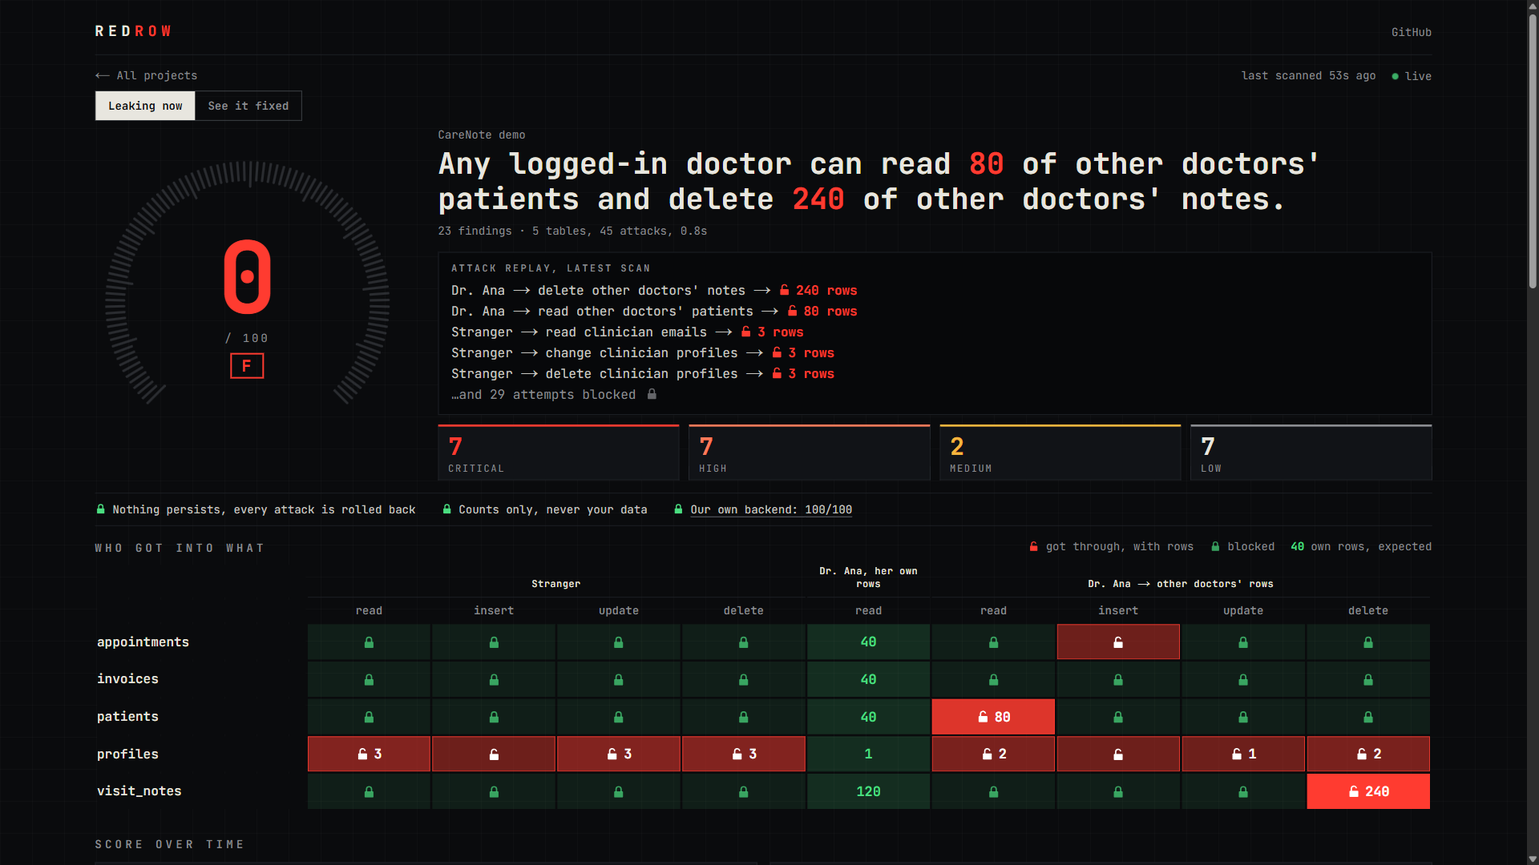
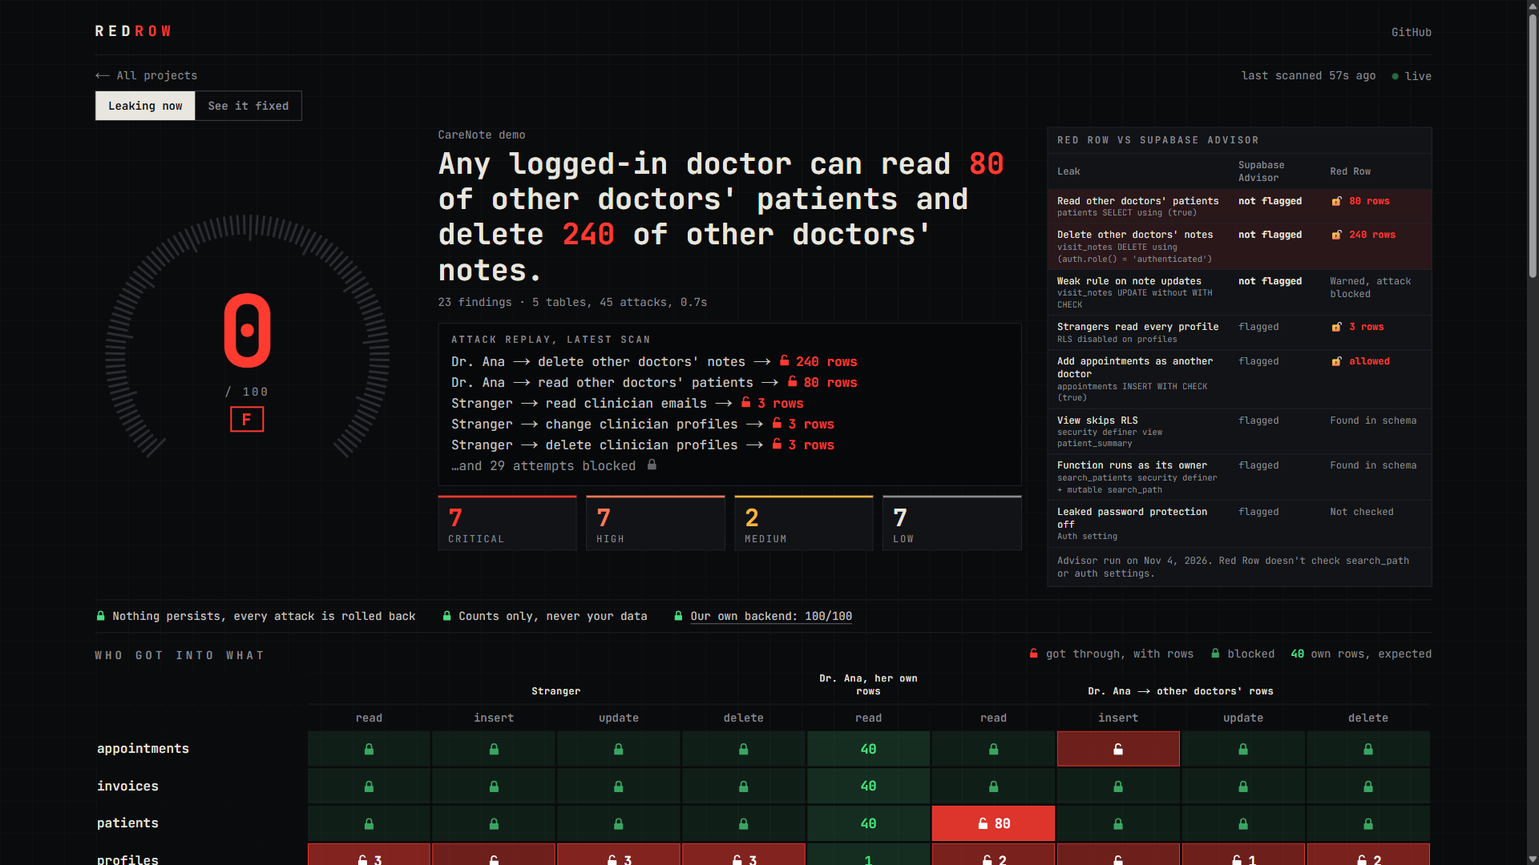
docs: judge-facing README

diff --git a/README.md b/README.md
@@ -4,15 +4,46 @@
 
 **[See it live → redrow.vercel.app](https://redrow.vercel.app)**
 
-Supabase's Security Advisor checks whether Row Level Security is *on*. Red Row checks whether it *works*: it attacks your database as real users, and reports what got through, with row counts.
+Supabase's Security Advisor reads your configuration. Red Row checks whether Row Level Security *works*: it attacks your database as real users, and reports what got through, with row counts.
 
 | Leaking now | See it fixed |
 |---|---|
-| ![CareNote leaking: any logged-in doctor can read 80 of other doctors' patients and delete 240 of their notes. Score 0/F.](docs/img/carenote-leaking.png) | ![The same attacks with the fix applied: every attack blocked. Score 100/A.](docs/img/carenote-fixed.png) |
+| ![CareNote leaking: any logged-in doctor can read 80 of other doctors' patients and delete 240 of their notes. Score 0/F, beside the Red Row vs Supabase Advisor panel.](docs/img/carenote-leaking.png) | ![The same attacks with the fix applied: every attack blocked. Score 100/A.](docs/img/carenote-fixed.png) |
 
-## Red Row vs Supabase's Advisor
+## For judges
 
-Supabase's Advisor reads policy text. Red Row logs in and tries.
+Each claim links to the file that backs it. Measurements are from Nov 4, 2026.
+
+### Data quality
+
+- **Watched by Sodabase:** `scan_runs`, `findings` and `probe_results` on `redrow-hq`, each with freshness and new-row monitors.
+- **Insert-only:** `anon` and `authenticated` get `SELECT` on the scan tables, and there are no update or delete policies ([grants](hq/supabase/migrations/0001_init.sql#L96-L101)). The one exception is that a signed-in user can add their own row to `projects`, and email signups are off.
+- **Constrained:** [`0001_init.sql`](hq/supabase/migrations/0001_init.sql) has foreign keys, `NOT NULL`, and checks on scores, grades, counts, severities, rule ids, actors, actions and outcomes.
+- **Continuous:** a [`pg_cron` sweep](hq/supabase/migrations/0006_sweep_retries.sql) stored 488 real scans from 13:41 to 19:20 UTC. The median gap was 60s for CareNote and 80s for HQ.
+- **Labeled history:** 14 days of backfilled scans are marked `source = 'seed'` by [the seed script](hq/scripts/seed-history.mjs), and the dashboard draws them dashed.
+- **Open Sodabase issues:** each watched table has one open new-rows issue, which makes its verdict `untrusted` for now. Freshness passes, and its content scan found no serious issues. The rows are real: the live sweep wrote 560 `scan_runs` rows on Nov 4, against 192 a day in the seeded history. [`demo:capture-fixed`](demo-target/scripts/capture-fixed-reference.mjs) also pauses the sweep briefly, but around its 17:58 UTC capture no CareNote gap passed 100 seconds, so that isn't the cause.
+
+### Built to scale
+
+- **Indexes:** every foreign key and policy column is indexed ([`findings`](hq/supabase/migrations/0001_init.sql#L52-L54), [`probe_results`](hq/supabase/migrations/0001_init.sql#L68-L69)).
+- **RLS:** [enabled and forced](hq/supabase/migrations/0001_init.sql#L72-L79) on all four tables, with [`(select auth.uid())`](hq/supabase/migrations/0001_init.sql#L82-L95) in every policy that checks the user.
+- **Writes:** no API role can write the scan tables. The edge functions [`ingest`](hq/supabase/functions/ingest/index.ts) and [`sweep`](hq/supabase/functions/sweep/index.ts) insert each scan [in one transaction](hq/supabase/functions/_shared/store.ts), over a server-side database connection. `ingest` needs a key and [validates every report](hq/supabase/functions/_shared/report-schema.ts).
+- **Scheduling:** `pg_cron` calls `sweep` through `pg_net`, with its token [read from Vault](hq/supabase/migrations/0006_sweep_retries.sql). It asks every 20 seconds because `pg_net` requests often stall, and `sweep` skips a database scanned in the last 50 seconds.
+- **Realtime:** [`scan_runs` and `findings` are published](hq/supabase/migrations/0001_init.sql#L103-L104), and [the dashboard subscribes](apps/web/components/live.tsx).
+- **Self-scan:** Red Row scans its own backend about every minute (median 80s). All 212 real scans from 13:41 to 19:20 UTC scored 100/A, with `projects` [declared public](hq/redrow.config.json) because it backs the public board.
+
+### Execution
+
+- **Live:** https://redrow.vercel.app is public, needs no login, and updates itself when a sweep lands.
+- **End to end on real Supabase:** `scan` 0/F → `fix --apply -y` → 100/A. The exact steps are in [`docs/DEMO.md`](docs/DEMO.md). "See it fixed" shows [a stored real scan](apps/web/data/fixed-reference.json) of this database with [the reference fix](demo-target/supabase/fixed.sql) applied: 100/A, 45 attacks.
+- **Tests:** 994 pass: engine 512, CLI 399, HQ 15, web 68. That run includes the real-database tests, which skip when `REDROW_TEST_DB_URL` isn't set.
+- **Rollback safety:** [`rollback.test.ts`](packages/engine/test/rollback.test.ts) makes a probe really write, then checks that nothing persisted, including after a probe throws or the server rejects a statement. It also checks that a full scan changes nothing and that read-only mode sends no write.
+
+### Craft
+
+**The problem:** in [an audit of 200 vibe-coded apps](https://arxiv.org/abs/2606.23130), 91% had at least one vulnerability, and 65.77% of the vulnerabilities were Critical or High, concentrated in broken access control, injection and authentication failures. [More below](#why-this-exists).
+
+**Supabase's Advisor reads policy text. Red Row logs in and tries.**
 
 | Leak on the CareNote demo | Supabase Advisor | Red Row |
 |---|---|---|
@@ -27,6 +58,11 @@ Supabase's Advisor reads policy text. Red Row logs in and tries.
 
 Advisor run on Nov 4, 2026. Red Row doesn't check `search_path` or auth settings, so use both tools.
 
+**Why this needs an attack, not a read:**
+
+- [Supabase's RLS docs](https://supabase.com/docs/guides/database/postgres/row-level-security): "Until the suite passes, you don't know whether the policies do what you intended." Red Row runs the attack side of that check without you writing the tests.
+- [Sodabase's docs](https://sodabase.io/docs/database-access): its monitoring role "is created `bypassrls`, so on those tables it reads every row." So it can't see access leaks. Sodabase checks that the data is healthy, Red Row checks who can reach it, and the two are complementary.
+
 ## Quickstart
 
 Needs Node 20+. Use the **Session pooler** connection string from Supabase → Connect (port 5432).
@@ -37,7 +73,7 @@ npm install
 npm run scan -- --db "<session pooler url>" -y
 ```
 
-`-y` confirms you mean this database. Red Row refuses a remote database otherwise, unless it's listed in `allowHosts` in `redrow.config.json`. No API key needed.
+`-y` confirms you mean this database. Red Row refuses a remote database otherwise, unless it's listed in `allowHosts` in `redrow.config.json` or its name contains test, demo or staging. No API key needed.
 
 Red Row isn't on npm, so run it from a clone.
 
@@ -53,7 +89,7 @@ Red Row isn't on npm, so run it from a clone.
 - **Counts only.** It records row counts, owner ids and catalog metadata. It never reads or prints your row contents.
 - **Your data stays home.** Claude only sees schema text, policy text and finding metadata, and only if you set an API key.
 - **Opt out of writes.** `--read-only` skips every write attempt.
-- **Asks before production.** Remote databases need `-y` or an `allowHosts` entry.
+- **Asks before production.** Remote databases need `-y` or an `allowHosts` entry, unless the database name contains test, demo or staging. Use a staging project or a branch where you can.
 
 > **What a rollback can't undo:** sequence values, and outside effects from triggers and extensions such as `dblink` or `http`. If a trigger on your table calls out to another system, use `--read-only`.
 
@@ -124,7 +160,7 @@ Exit codes: `0` nothing at or above `--severity`, `1` findings, `2` couldn't run
               ▲                        ▲
               │                        │
         packages/cli            hq sweep function
-   terminal, JSON, HTML, fix    pg_cron, every minute
+   terminal, JSON, HTML, fix    pg_cron, about every minute
               │                        │
               │ --upload               │ counts only
               ▼                        ▼
@@ -180,6 +216,8 @@ npx vercel --prod                           # deploys from apps/web
 
 - [`docs/ENGINE.md`](docs/ENGINE.md): rules, probes and scoring
 - [`docs/SCHEMAS.md`](docs/SCHEMAS.md): the HQ schema and the deliberately leaky CareNote demo
+- [`docs/DEMO.md`](docs/DEMO.md): the 3-minute demo, step by step
+- [`docs/PITCH.md`](docs/PITCH.md): the pitch, sources and likely questions
 
 ## License
 

diff --git a/docs/PITCH.md b/docs/PITCH.md
@@ -10,7 +10,7 @@
 - **LLM-generated access-control policies in general, not RLS specifically (arXiv 2609.24036, Sep 2026):** in this study of Rego policies, a single-prompt baseline got deny rules wrong **62.5%** of the time and missed ownership conditions **60%** of the time.
 
 ## Why existing tools don't catch it
-Supabase Security Advisor is a static linter: it tells you RLS is **on**. A policy like `using (true)` for `authenticated` is "on", passes the linter, and still lets every signed-in user read every patient. Only an actual attack proves it. **Advisor checks configuration. Red Row checks behavior.**
+Supabase Security Advisor is a static linter: it reads configuration, and it does flag several real problems (see the table). But a policy like `using (true)` on SELECT for `authenticated` passes the linter, and still lets every signed-in user read every patient. Only an actual attack proves it. **Advisor checks configuration. Red Row checks behavior.**
 
 Supabase's Advisor reads policy text. Red Row logs in and tries.
 
@@ -30,35 +30,37 @@ Advisor run on Nov 4, 2026. Red Row doesn't check `search_path` or auth settings
 ## How it works (30-second version)
 1. Introspect catalog: tables, grants, policies, views, SECURITY DEFINER functions.
 2. Pick real owner ids from the data, or pin one by email (ids only, never row contents).
-3. In a transaction: `set local role authenticated`, set `request.jwt.claims` to user A, try to read/insert/update/delete other users' rows. Count what succeeds. **Rollback.** Nothing ever persists.
-4. Score 0–100, leak matrix, and `npm run fix` asks Claude for a migration (schema + policy text only, never data).
+3. In a transaction: `set local role authenticated`, set `request.jwt.claims` to user A, try to read/insert/update/delete other users' rows. Count what succeeds. **Rollback.** The attack's changes never commit; sequence values and outside effects from triggers are the documented exceptions.
+4. Score 0–100, leak matrix, and `npm run fix` writes a migration: from Claude if an API key is set (schema + policy text only, never data), from rule-based templates if not.
 
 ## Judging map (25% each)
 | Criterion | What we show |
 |---|---|
-| Data quality | HQ is insert-only, constrained, written every minute by a pg_cron sweep → Sodabase score |
-| Built to scale | HQ schema: every FK + policy column indexed, `(select auth.uid())`, forced RLS, service-role-only writes. **Red Row scans HQ → 100.** |
+| Data quality | HQ is insert-only for API roles, constrained, written about every minute by a pg_cron sweep, and watched by Sodabase |
+| Built to scale | HQ schema: every FK + policy column indexed, `(select auth.uid())`, forced RLS, scan tables written only by edge functions. **Red Row scans HQ → 100.** |
 | Execution | Live: scan CareNote → red → fix → rescan green, end to end, on stage |
 | Craft | Clone and run, open source (MIT), beautiful HTML report + live dashboard |
 
 ## 3-minute demo script
+The exact commands, with reset steps, are in [`DEMO.md`](DEMO.md).
+
 **Before going on,** load the URL into the terminal, because `.env` doesn't reach your shell. This prints nothing. In PowerShell, run this and then use `$env:DEMO_DB_URL` wherever the script says `$DEMO_DB_URL`:
 ```powershell
 $env:DEMO_DB_URL = (Select-String -Path .env -Pattern '^DEMO_DB_URL=').Line.Split('=', 2)[1]
 ```
 
-1. **(0:00) Hook.** "Raise your hand if an AI has written an RLS policy for you. This is CareNote — a clinic app the way an AI builder generates it. Supabase Advisor is mostly happy with it."
+1. **(0:00) Hook.** "Raise your hand if an AI has written an RLS policy for you. This is CareNote — a clinic app the way an AI builder generates it. Supabase's Advisor flags some of it, and misses the two worst leaks."
 2. **(0:25) Attack.** Run `npm run scan -- --db $DEMO_DB_URL`. Terminal turns red: score 0/F. "Logged in as Dr. Ana, I can read **80 of other doctors' patients**, and delete **240 of their notes**. A stranger who isn't even logged in can read every clinician's email."
 3. **(1:05) Matrix.** Dashboard: leak matrix (Stranger / Dr. Ana / Dr. Ana → other doctors × tables × read/insert/update/delete). Red cells with row counts. Invoices row is green — "the one table the AI got right."
-4. **(1:35) Fix.** `npm run scan -- --db $DEMO_DB_URL --json > report.json`, then `npm run fix -- --db $DEMO_DB_URL --from report.json --apply -y`. Show the generated migration, every block labeled with the rule it fixes. Terminal rescan → 100/A straight away. The dashboard dial follows when the next sweep lands, up to about a minute later.
-5. **(2:10) Safety.** "Every attack runs inside a transaction that's rolled back. We record counts and ids, never row contents. Nothing persists, and we only ever record counts."
-6. **(2:30) Scale + data quality.** "And our own backend? Red Row scans it every minute: 100. Here's our Sodabase score." Show both.
+4. **(1:35) Fix.** `npm run scan -- --db $DEMO_DB_URL --json > redrow-report.json`, then `npm run fix -- --db $DEMO_DB_URL --from redrow-report.json --apply -y`. Show the generated migration, every block labeled with the rule it fixes. Terminal rescan → 100/A straight away. The dashboard dial follows when the next sweep lands, up to about a minute later.
+5. **(2:10) Safety.** "Every attack runs inside a transaction that's rolled back. We read counts and owner ids, never row contents, and the attacks never commit."
+6. **(2:30) Scale + data quality.** "And our own backend? Red Row scans it about every minute: 100. And Sodabase watches our scan history." Show both.
 7. **(2:50) Close.** "Clone it and `npm run scan`. Open source today. Run it on your project before someone else does."
 
 ## Likely judge questions
 - **"Isn't that CVE disputed?"** Yes, the supplier disputes it. Even setting that CVE aside, the pattern is documented across many incidents and in the audits above.
-- **"Isn't this Security Advisor?"** Advisor = static config lint. We prove exploitability with real counts, catch semantic leaks (`using (true)`, missing ownership, missing `with check`) that lint clean, and generate the fix.
-- **"Is it safe?"** Nothing persists, and we only ever record counts. Every probe is inside `begin … rollback`, with 5s statement timeout and 1s lock timeout. `--read-only` skips writes entirely. We never select row contents.
+- **"Isn't this Security Advisor?"** Advisor = static config lint. We prove exploitability with real counts, including two leaks that lint clean (`using (true)` on SELECT, and a DELETE with no ownership check), and generate the fix. A missing `with check` is a warning only: on CareNote that attack is blocked. Advisor also covers things we don't, like `search_path` and auth settings, so use both.
+- **"Is it safe?"** The attacks never commit, and we read counts and owner ids, never row contents. Every probe is inside `begin … rollback`, with 5s statement timeout and 1s lock timeout. `--read-only` skips writes entirely. We never select row contents.
 - **"Where should I run it?"** Run it against a staging project or a Supabase branch; the guard refuses production-looking targets by default, and triggers/sequences are the documented exceptions to rollback.
-- **"What about complex policies (joins, teams)?"** Probes are behavioral, so they work regardless of policy complexity; ownership detection uses FKs to `auth.users` with config override for team-based schemas.
+- **"What about complex policies (joins, teams)?"** Probes are behavioral, so they test what the policy does however complex it is, as long as Red Row can tell who owns a row. Ownership detection uses FKs to `auth.users`, with `ownerColumns` and `tenants` in the config for other schemas.
 - **"Why the Sodabase angle?"** Scan history is data we want to trust: insert-only, constrained, continuously fresh.

diff --git a/CLAUDE.md b/CLAUDE.md
@@ -2,14 +2,15 @@
 
 > **AI wrote your RLS. Red Row proves whether it leaks.**
 
-Red Row is an open-source CLI (clone the repo, then `npm run scan`) that **attacks a Supabase project's Row Level Security** with simulated users and reports, with real row counts, who can read or write what. Every attack runs inside a transaction that is always rolled back, so it is safe to run on any project.
+Red Row is an open-source CLI (clone the repo, then `npm run scan`) that **attacks a Supabase project's Row Level Security** with simulated users and reports, with real row counts, who can read or write what. Every attack runs inside a transaction that is always rolled back. Sequence values and outside effects from triggers are the documented exceptions, so point it at a staging project or a branch where you can.
 
 Built for the **Supabase × Sodabase × BuilderBase NYC Hackathon (Wed Nov 4, 2026)**. Read `docs/` before building anything:
 
 - `docs/ENGINE.md` — exact introspection SQL, attack algorithm, rule IDs, scoring. **Source of truth for the engine.**
 - `docs/SCHEMAS.md` — HQ (dashboard) schema + the deliberately leaky demo target ("CareNote").
 - `docs/PITCH.md` — the problem, research backing, judging criteria, demo script.
-- `HANDOVER.md` — the build is split into small handovers; do only the one you are given.
+- `docs/DEMO.md` — the 3-minute demo, step by step.
+- `docs/history/HANDOVER.md` — build log, superseded by README.
 
 ---
 
@@ -22,7 +23,7 @@ AI app builders generate Supabase schemas and RLS policies that compile, pass li
 1. **Data quality** — Sodabase scores our HQ tables (freshness + row count). HQ tables are insert-only with `created_at`, written continuously by a `pg_cron` sweep. Never update/delete rows in HQ.
 2. **Built to scale** — judges read our schema, indexes, RLS and edge functions. HQ must score **100 when Red Row scans itself.**
 3. **Execution** — the live demo works end to end: scan → leaks → fix → rescan = 100.
-4. **Craft** — polished, original, clear problem. One-line install, beautiful report, great README.
+4. **Craft** — polished, original, clear problem. Clone and run, beautiful report, great README.
 
 Event constraints: building 4:30–7:00 PM, **Sodabase must be connected by 5:30 PM**, submit public repo + live URL/video + Sodabase score by 7:00 PM.
 
@@ -32,7 +33,7 @@ Event constraints: building 4:30–7:00 PM, **Sodabase must be connected by 5:30
 
 ```
 redrow/
-├─ CLAUDE.md, HANDOVER.md, README.md, LICENSE (MIT), .env.example
+├─ CLAUDE.md, README.md, LICENSE (MIT), .env.example
 ├─ docs/                      specs (read-only reference)
 ├─ packages/
 │  ├─ engine/                 pure TypeScript: introspect → static rules → probes → score
@@ -89,6 +90,6 @@ Two separate Supabase cloud projects (free tier allows 2):
 
 - `npm run scan -- --db $DEMO_DB_URL` prints a red report in < 10 s (the demo host is in `allowHosts`, or pass `-y`); `--html` writes a self-contained report.
 - `npm run fix -- --from report.json` writes a migration; after applying it, rescan = 100 (or near).
-- HQ scanning itself = 100. pg_cron sweep writes a scan every minute. Sodabase connected.
+- HQ scanning itself = 100. pg_cron sweep writes a scan about every minute. Sodabase connected.
 - Dashboard live on Vercel: score dial, leak matrix, score-over-time, findings with copyable fix SQL.
-- README with GIF, install line, safety explanation, MIT license. Repo public.
+- README with screenshots, clone-and-run quickstart, safety explanation, MIT license. Repo public.

diff --git a/docs/DEMO.md b/docs/DEMO.md
@@ -1,0 +1,89 @@
+# The 3-minute demo
+
+CareNote is a deliberately leaky clinic app on real Supabase. This takes it from 0/F to 100/A and back.
+
+## Before you start
+
+You need a clone with `npm install` done, and a `.env` with `DEMO_DB_URL` and the other values in [`.env.example`](../.env.example).
+
+`.env` doesn't reach your shell, so load the database URL first. It prints nothing. In PowerShell:
+
+```powershell
+$env:DEMO_DB_URL = (Select-String -Path .env -Pattern '^DEMO_DB_URL=').Line.Split('=', 2)[1]
+```
+
+In bash:
+
+```bash
+export DEMO_DB_URL="$(grep '^DEMO_DB_URL=' .env | cut -d= -f2-)"
+```
+
+The commands below use the PowerShell form. In bash, write `"$DEMO_DB_URL"` instead.
+
+Have https://redrow.vercel.app open on the CareNote page, on "Leaking now".
+
+## Steps
+
+### 0. Reset (before going on)
+
+```powershell
+npm run demo:reset
+```
+
+This rebuilds CareNote's leaky schema and its fake data. Do it before you go on, because the data takes a moment to reseed.
+
+### 1. Attack (0:00–0:45)
+
+```powershell
+npm run scan -- --db $env:DEMO_DB_URL
+```
+
+The terminal turns red, with a score of 0/F. Logged in as Dr. Ana, Red Row reads 80 of other doctors' patients and deletes 240 of their notes, all rolled back. A stranger who isn't logged in reads every clinician's email.
+
+### 2. Dashboard (0:45–1:35)
+
+On the CareNote page, show three things:
+
+- **The attack replay**, which plays the same attacks.
+- **The "Red Row vs Supabase Advisor" panel.** The two headline leaks read "not flagged" against "🔓 80 rows" and "🔓 240 rows".
+- **The leak matrix.** Invoices is the one table with no leaks.
+
+### 3. Fix (1:35–2:10)
+
+```powershell
+npm run scan -- --db $env:DEMO_DB_URL --json > redrow-report.json
+npm run fix -- --db $env:DEMO_DB_URL --from redrow-report.json --apply -y
+```
+
+This writes `redrow-fix-<timestamp>.sql`, with each block labeled by the rule it fixes, applies it, rescans, and prints before → after. Claude writes the migration if `ANTHROPIC_API_KEY` is set in your shell, and rule-based templates write it if not.
+
+### 4. Rescan (2:10–2:30)
+
+```powershell
+npm run scan -- --db $env:DEMO_DB_URL
+```
+
+100/A. The dashboard follows when the next sweep lands, usually within a minute or two.
+
+### 5. Close (2:30–3:00)
+
+Show that Red Row scans its own backend: "Our own backend: 100/100" on the CareNote page links to it. Then the safety line: every attack runs in a transaction that's rolled back.
+
+### 6. Reset (after you finish)
+
+```powershell
+npm run demo:reset
+```
+
+CareNote goes back to 0/F for the next run, and the next sweep shows it.
+
+## Worth knowing
+
+- **A sweep during the demo stays in the history.** HQ is insert-only, so a sweep that lands while CareNote is fixed leaves a real 100/A in its chart. To rehearse without that, pause the sweep first, as [`capture-fixed-reference.mjs`](../demo-target/scripts/capture-fixed-reference.mjs) does, and resume it after:
+
+  ```sql
+  select cron.alter_job(job_id := (select jobid from cron.job where jobname = 'redrow-sweep'), active := false);
+  ```
+
+- **The comparison panel hides once CareNote is fixed.** Its counts come from a leaking scan, so it only shows while the live score is under 90. Show it in step 2.
+- **Don't run `demo:capture-fixed` near a demo.** It pauses the sweep and resets CareNote.

diff --git a/docs/SCHEMAS.md b/docs/SCHEMAS.md
@@ -11,7 +11,7 @@ Two separate Supabase projects. HQ must be **clean** (scores 100 on Red Row, sco
 - Constraints everywhere: `not null`, `check`, FKs with explicit `on delete`, unique where natural.
 - An index on **every FK column** and every column used in an RLS policy, plus `(…, created_at desc)` composite indexes for the dashboard's "latest first" queries.
 - RLS **enabled and forced** on every table. Policies use `(select auth.uid())`. No `using (true)`.
-- Writes from the outside world only go through edge functions using the service role. The browser gets read-only access.
+- Writes to the scan tables only go through edge functions, over a server-side database connection. The browser gets read-only access.
 - Seed about **14 days of backdated history** so Sodabase freshness can reconstruct normal immediately.
 
 ### Migration `hq/supabase/migrations/0001_init.sql`
@@ -110,7 +110,7 @@ create policy findings_read on public.findings for select to anon, authenticated
 create policy probe_results_read on public.probe_results for select to anon, authenticated
   using (exists (select 1 from public.projects p where p.id = project_id
                  and (p.is_public or p.owner_id = (select auth.uid()))));
--- No insert/update/delete policies on scan tables: only the service role (edge functions) writes.
+-- No insert/update/delete policies on scan tables: only the edge functions write.
 
 -- Least privilege grants
 revoke all on public.projects, public.scan_runs, public.findings, public.probe_results from anon, authenticated;

diff --git a/docs/ENGINE.md b/docs/ENGINE.md
@@ -1,5 +1,7 @@
 # Engine spec — introspection, rules, probes, scoring
 
+Red Row isn't on npm. In these docs, `redrow scan` and `redrow fix` mean `npm run scan --` and `npm run fix --` from a clone.
+
 The engine is `packages/engine`. Public API:
 
 ```ts

diff --git a/docs/history/HANDOVER.md b/docs/history/HANDOVER.md
@@ -1,3 +1,5 @@
+> Build log, superseded by README.
+
 # Handovers — paste ONE at a time into Claude Code
 
 Each handover is small and ends in something runnable. Do not start the next one until the current one's "Done when" is true. Commit after each.
